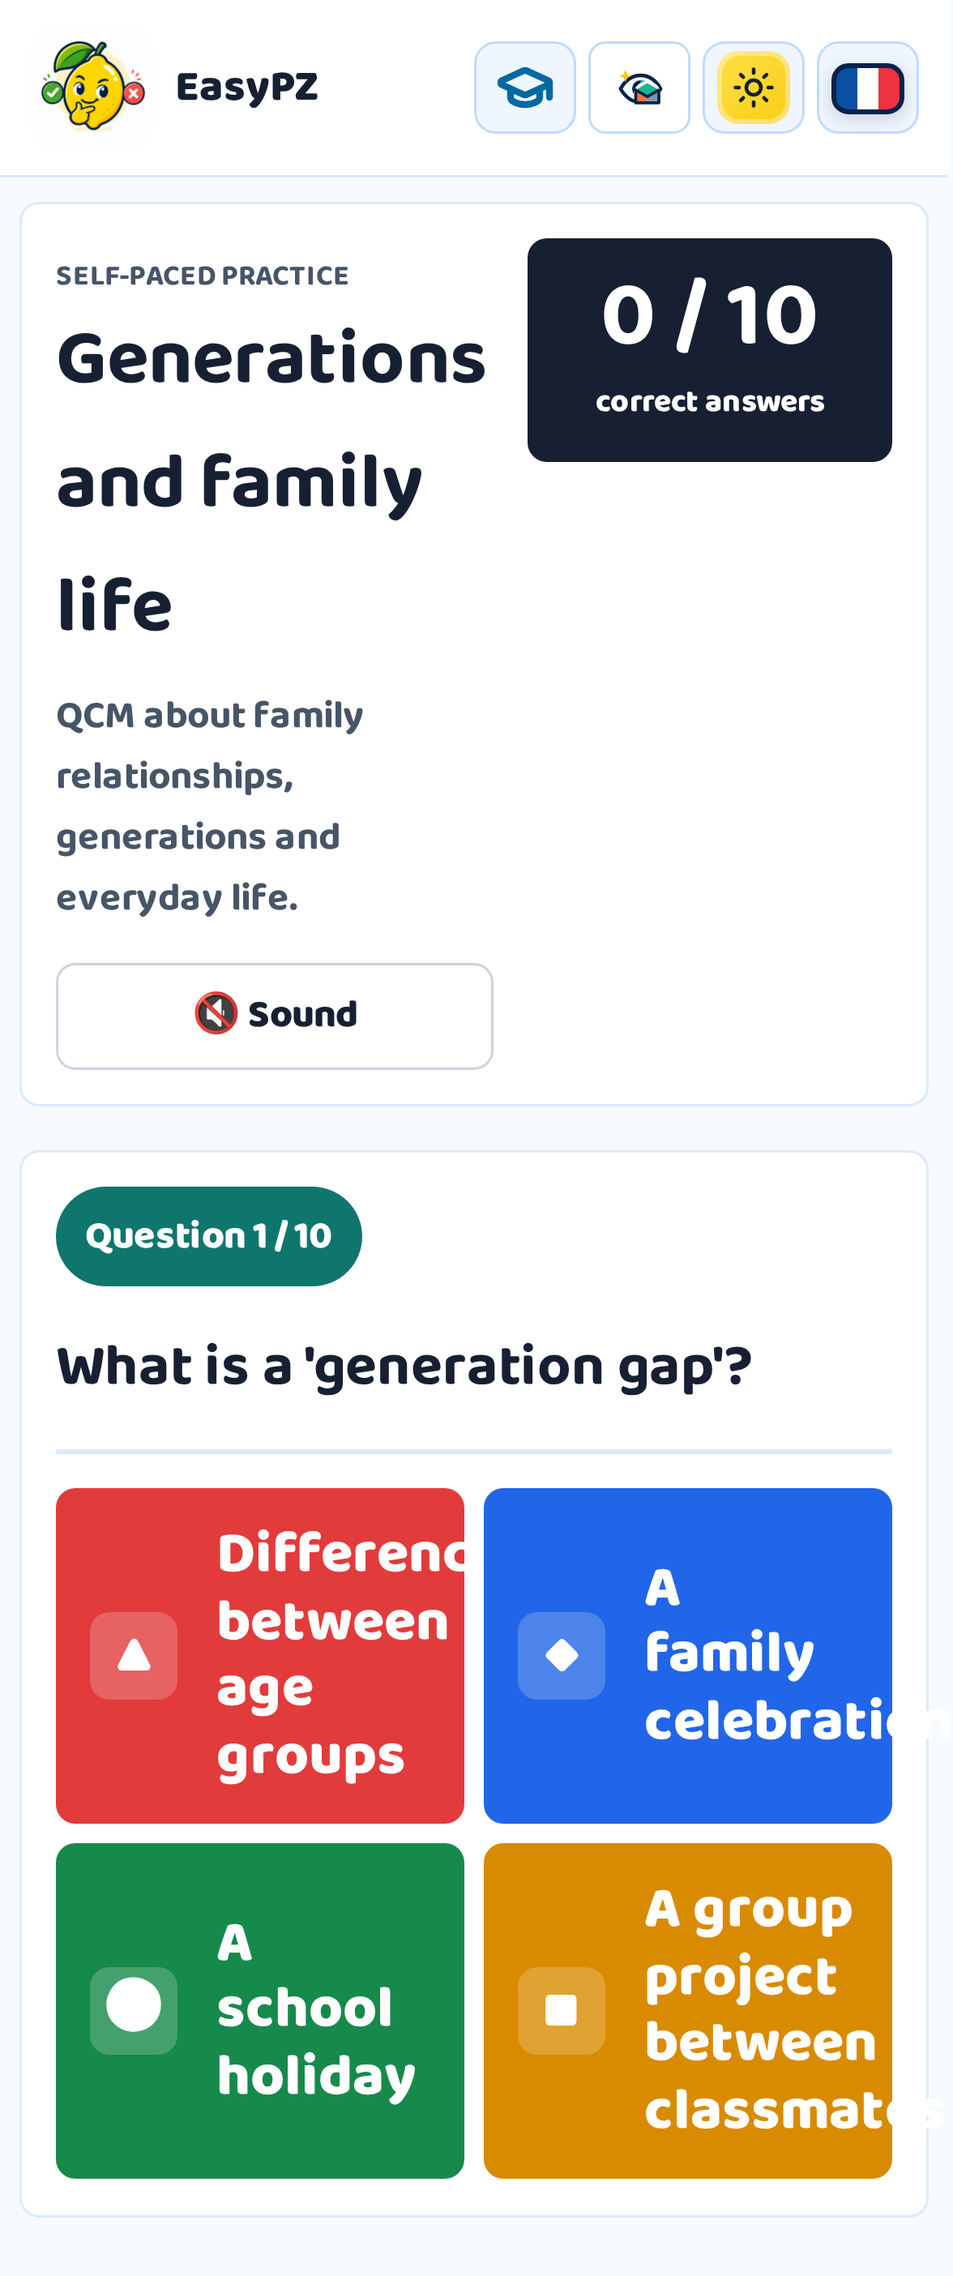
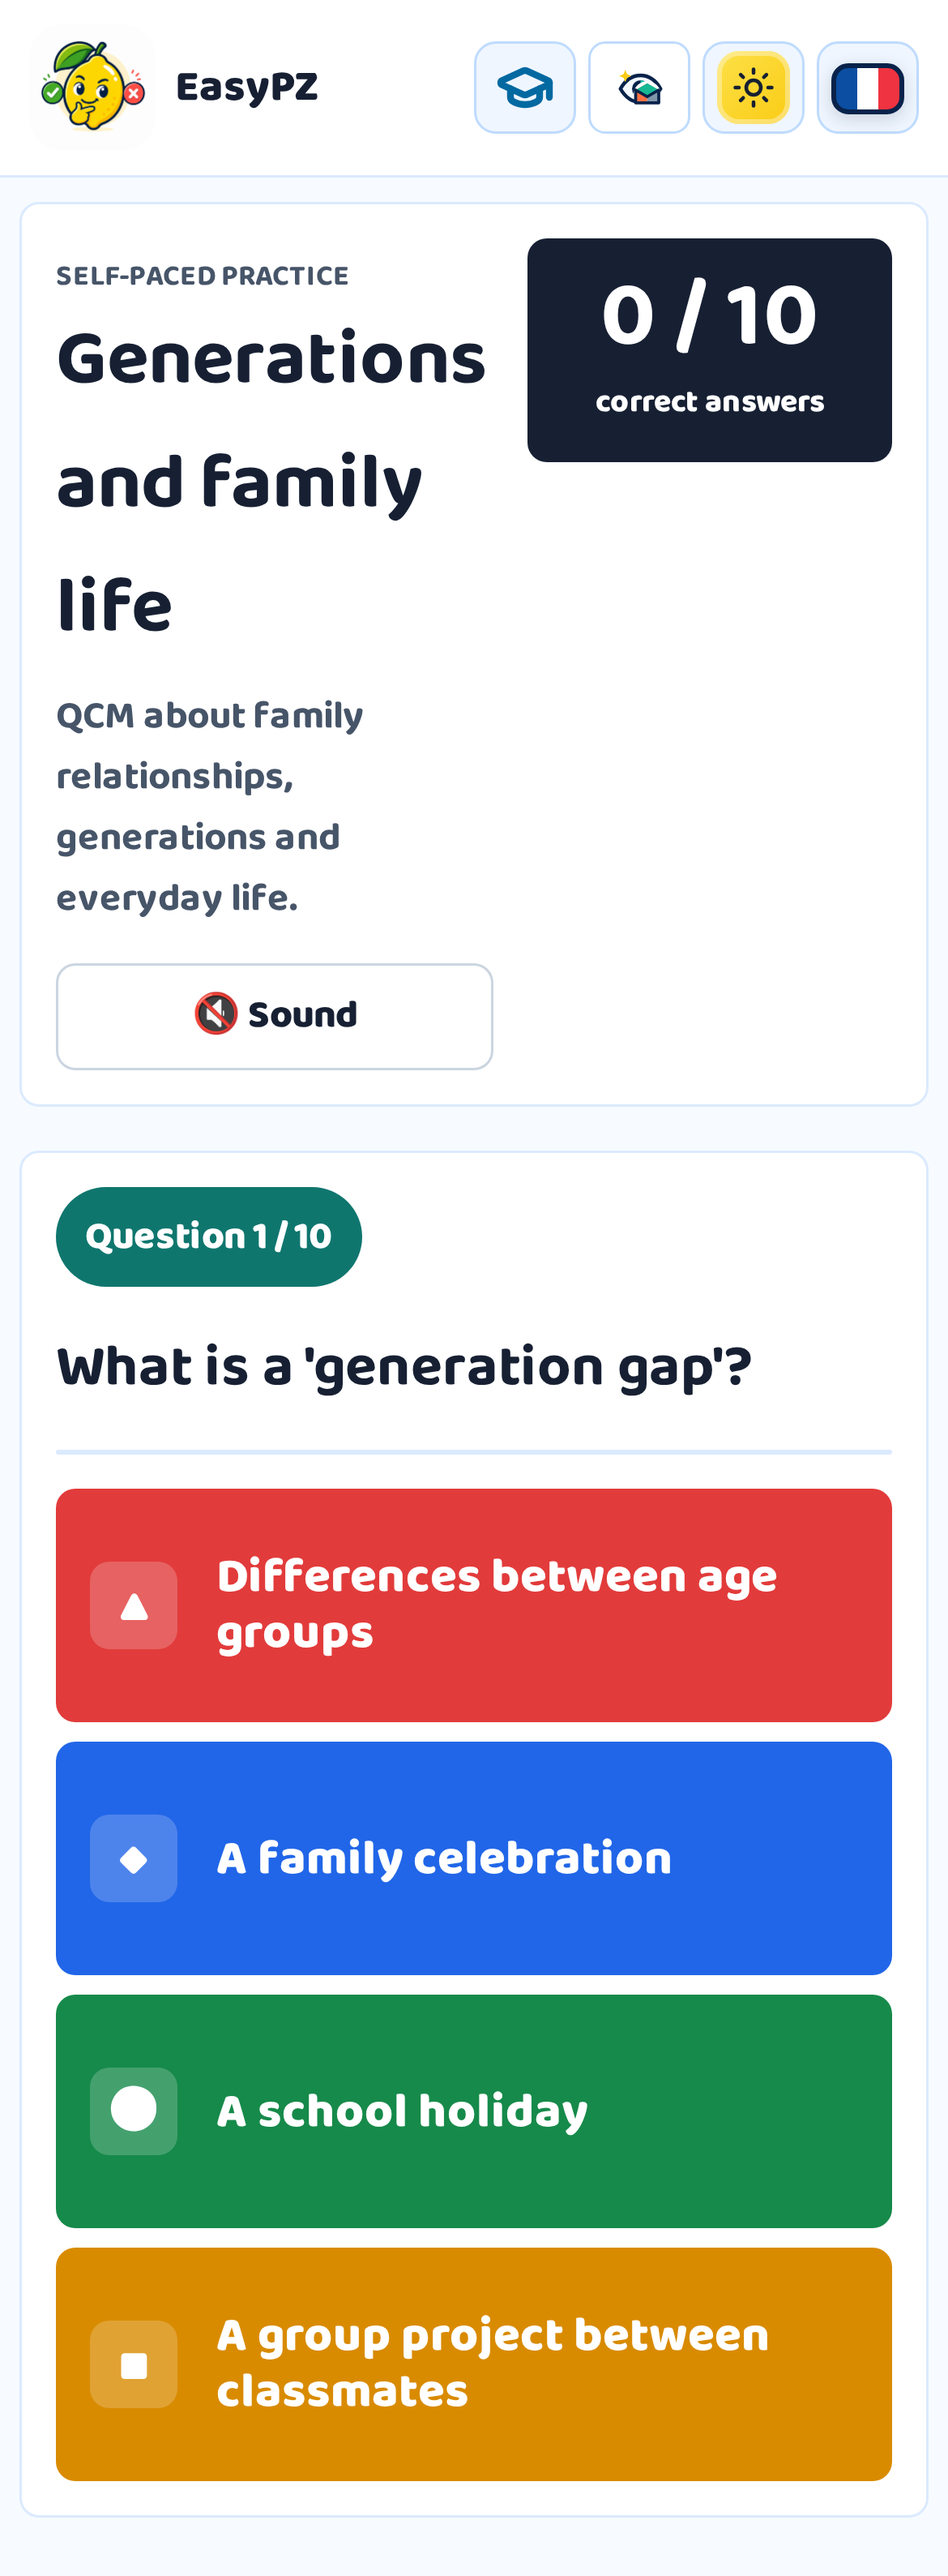
Corrige la mise en page mobile de l'entrainement (reponses rognees)
Sur telephone, les quatre reponses s'affichaient sur deux colonnes et leur texte
etait coupe en plein mot. Mesures avant (scrollWidth / innerWidth) : 390 px -> 392,
360 px -> 377, 320 px -> 357.

- reponses empilees sur une colonne, texte a la ligne, cible >= 44 px ;
- en-tete resserre jusqu'a 360 px (le bloc d'actions debordait de 24 px a 320 px) ;
- rendu desktop inchange (1280 px : scrollWidth 1280, boutons 565 x 96 px).

Mesures apres, verifiees en local : 320 -> 320, 360 -> 360, 390 -> 390, 1280 -> 1280.
Garde-fous : eslint, tsc --noEmit, vitest (61 fichiers, 246 tests). Capture mobile
de l'ecran d'entrainement regeneree.

diff --git a/src/styles.css b/src/styles.css
@@ -4825,9 +4825,19 @@ button:disabled {
     width: 100%;
   }
 
+  .practice-answer-grid {
+    grid-template-columns: minmax(0, 1fr);
+  }
+
   .student-question .answer-tile,
   .practice-answer-grid .answer-tile {
     grid-template-columns: 40px minmax(0, 1fr);
+    min-width: 0;
+    min-height: 96px;
+    height: auto;
+    white-space: normal;
+    overflow-wrap: break-word;
+    font-size: 20px;
   }
 
   .student-question .student-answer-pad-tile {
@@ -4849,6 +4859,37 @@ button:disabled {
   .practice-score,
   .practice-feedback button {
     width: 100%;
+  }
+}
+
+@media (max-width: 360px) {
+  .topbar-primary-row {
+    gap: 2px;
+  }
+
+  .brand-logo {
+    width: 36px;
+    height: 36px;
+    border-radius: 10px;
+  }
+
+  .brand-link {
+    gap: 4px;
+    font-size: 16px;
+  }
+
+  .mobile-top-actions {
+    gap: 2px;
+  }
+
+  .mobile-top-actions .theme-toggle,
+  .mobile-top-actions .icon-button,
+  .mobile-teacher-link,
+  .mobile-colorblind-control {
+    width: 44px;
+    min-width: 44px;
+    height: 44px;
+    min-height: 44px;
   }
 }
 
